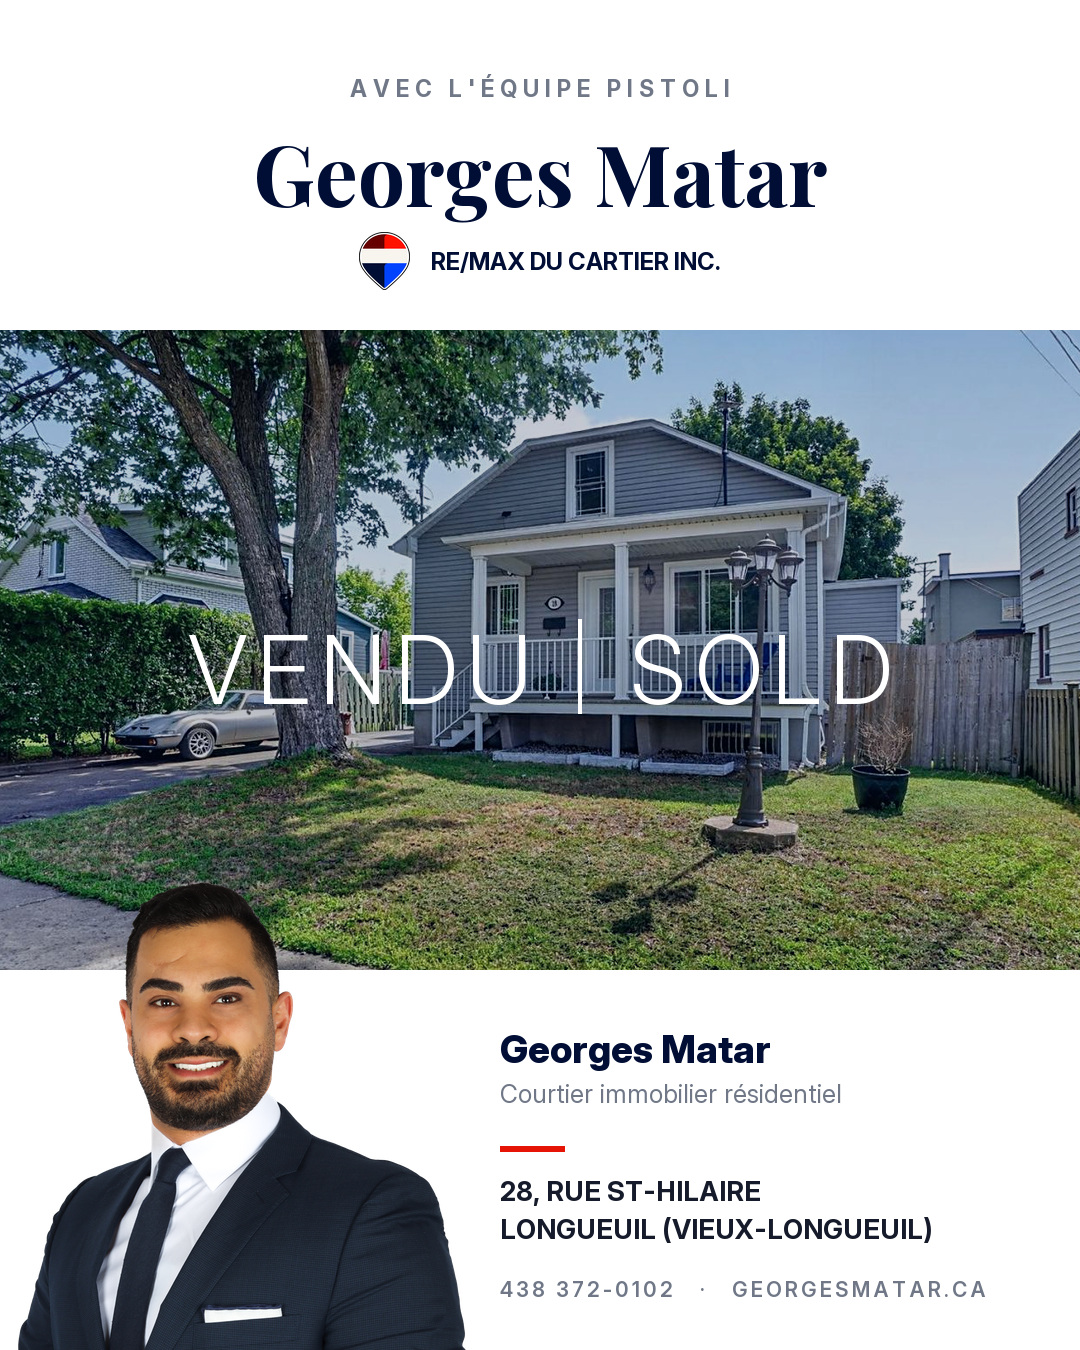
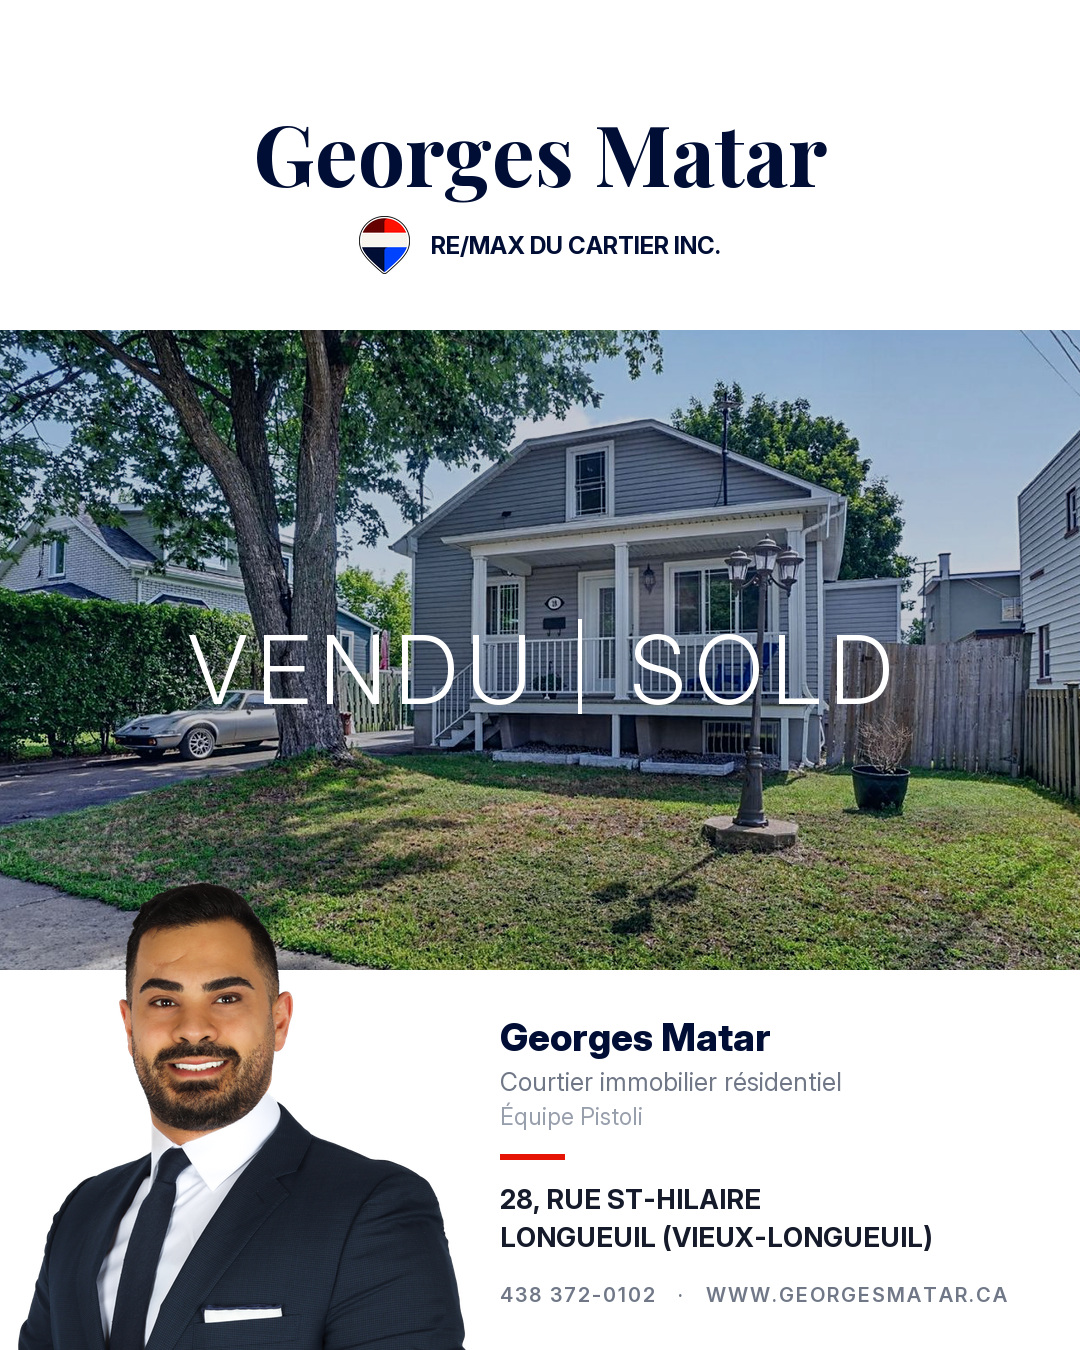
refactor: adresse web complete et Equipe Pistoli discrete sur les publications
- georgesmatar.ca devient www.georgesmatar.ca, et la ligne de coordonnees se
  resserre d elle meme jusqu a tenir dans la largeur restante
- AVEC L EQUIPE PISTOLI quitte le haut du visuel: l attribution devient
  Equipe Pistoli, en gris pale sous le titre du courtier. Elle reste due,
  mais elle ne concurrence plus le nom
- l en-tete se rebalance sans son sur-titre: le nom, puis l agence

Changed region(s): [[0.4583, 0.7467, 0.9167, 0.9644], [0.2139, 0.0622, 0.7639, 0.2178]]

diff --git a/carrousel-instagram/vendu/generer-post-vendu.py b/carrousel-instagram/vendu/generer-post-vendu.py
@@ -34,8 +34,11 @@ PHOTO_Y0, PHOTO_Y1 = 330, 970           # la bande de photo, pleine largeur
 
 COURTIER = "Georges Matar"
 TITRE = "Courtier immobilier résidentiel"
-EQUIPE = "AVEC L'ÉQUIPE PISTOLI"
-CONTACT = "438 372-0102   ·   GEORGESMATAR.CA"
+# l attribution a l Equipe Pistoli est due, mais elle n a pas a concurrencer
+# le nom du courtier: elle descend dans le pied, en gris pale, sous le titre
+EQUIPE = "Équipe Pistoli"
+GRIS_PALE = (152, 159, 172)
+CONTACT = "438 372-0102   ·   WWW.GEORGESMATAR.CA"
 
 
 # zoom: 1.0 garde la photo entiere sur la largeur. Au dela, on se rapproche
@@ -58,8 +61,7 @@ PROPRIETES = [
 def entete(c):
     """Le nom du courtier et l agence, comme un en-tete de papier a lettres."""
     d = ImageDraw.Draw(c)
-    tracked(d, (W // 2, 74), EQUIPE, inter(23, 700), GREY, 6, "c")
-    d.text((W // 2, 116), COURTIER, font=playfair(84, 700), fill=NAVY,
+    d.text((W // 2, 96), COURTIER, font=playfair(84, 700), fill=NAVY,
            anchor="ma")
 
     lh = 58
@@ -68,8 +70,8 @@ def entete(c):
     lbl = "RE/MAX DU CARTIER INC."
     total = lw + 20 + d.textlength(lbl, font=f)
     x = (W - total) / 2
-    logo(c, lh, (x, 232), white=False)
-    d.text((x + lw + 20, 232 + lh / 2), lbl, font=f, fill=NAVY, anchor="lm")
+    logo(c, lh, (x, 216), white=False)
+    d.text((x + lw + 20, 216 + lh / 2), lbl, font=f, fill=NAVY, anchor="lm")
 
 
 def bande_photo(c, prop):
@@ -127,23 +129,32 @@ def pied(c, prop):
 
     d = ImageDraw.Draw(c)
     x = 18 + pw + 34
-    d.text((x, 1026), COURTIER, font=inter(38, 800), fill=NAVY)
-    y = 1078
-    for ln in wrap(d, TITRE, inter(25, 400), W - MARGE - x):
+    dispo = W - MARGE - x
+    d.text((x, 1014), COURTIER, font=inter(38, 800), fill=NAVY)
+    y = 1066
+    for ln in wrap(d, TITRE, inter(25, 400), dispo):
         d.text((x, y), ln, font=inter(25, 400), fill=GREY)
         y += 34
+    d.text((x, y + 2), EQUIPE, font=inter(23, 400), fill=GRIS_PALE)
+    y += 38
 
-    y = max(y + 26, 1146)
+    y = max(y + 16, 1148)
     d.rectangle([x, y, x + 64, y + 5], fill=RED + (255,))
     y += 28
     for ln in prop["adresse"]:
-        for bout in wrap(d, ln, inter(27, 700), W - MARGE - x):
+        for bout in wrap(d, ln, inter(27, 700), dispo):
             d.text((x, y), bout, font=inter(27, 700), fill=INK)
             y += 38
 
     # la ligne de coordonnees se pose sous l adresse, jamais dessus, meme si
-    # une adresse prend une ligne de plus
-    tracked(d, (x, max(y + 26, H - 82)), CONTACT, inter(21, 600), GREY, 3)
+    # une adresse prend une ligne de plus, et se resserre jusqu a tenir dans
+    # la largeur restante plutot que de deborder sur la marge
+    taille, track = 21, 3
+    while taille > 16 and tw(d, CONTACT, inter(taille, 600), track) > dispo:
+        taille -= 1
+        track = 2
+    tracked(d, (x, max(y + 24, H - 82)), CONTACT, inter(taille, 600), GREY,
+            track)
 
 
 def fabriquer(prop):
